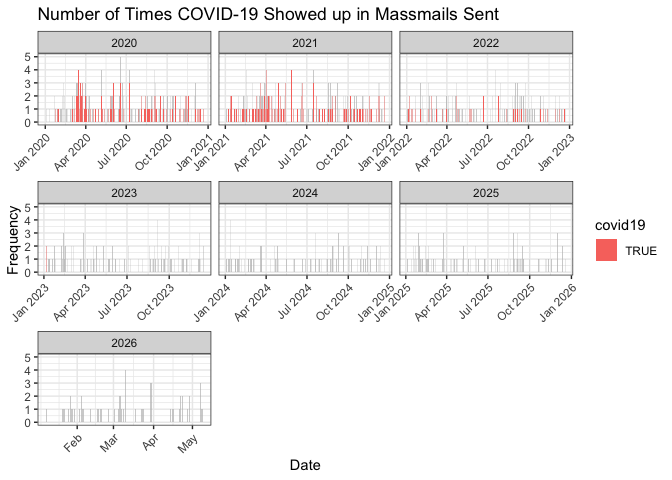
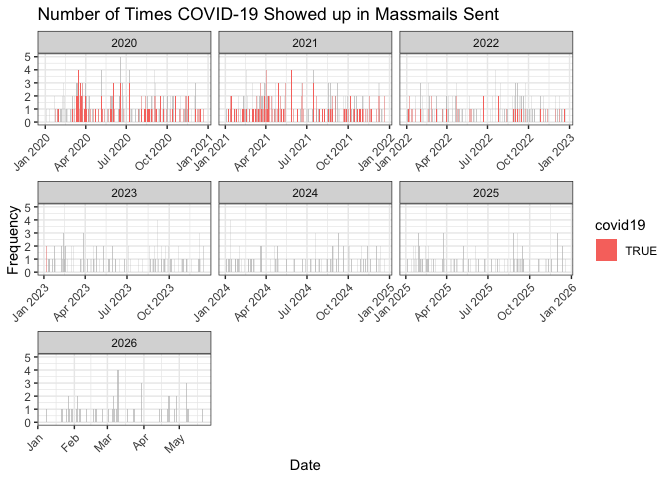
Re-build README.Rmd and Graphs

Changed region(s): [[0.0938, 0.75, 0.3125, 0.9375], [0.0312, 0.9062, 0.0625, 0.9375]]

diff --git a/README.md b/README.md
@@ -17,7 +17,7 @@ The archive may be viewed here:
 
 <https://massmail.illinois.edu/massmailArchive>
 
-Data has **1967** observations and **7** variables:
+Data has **1968** observations and **7** variables:
 
 - `datetime`: Date and time when the email was sent in the form of
   `YYYY-MM-DD HMS` with either CDT or CST.
@@ -210,16 +210,16 @@ head(most_popular_words, 10) %>%
 
 | word        | freq |
 |:------------|-----:|
-| university  | 2669 |
-| students    | 2194 |
+| university  | 2677 |
+| students    | 2196 |
 | campus      | 1925 |
-| illinois    | 1874 |
+| illinois    | 1880 |
 | student     | 1395 |
-| faculty     | 1245 |
+| faculty     | 1247 |
 | health      | 1179 |
-| community   | 1142 |
+| community   | 1143 |
 | information | 1111 |
-| staff       | 1085 |
+| staff       | 1088 |
 
 #### Wordcloud
 